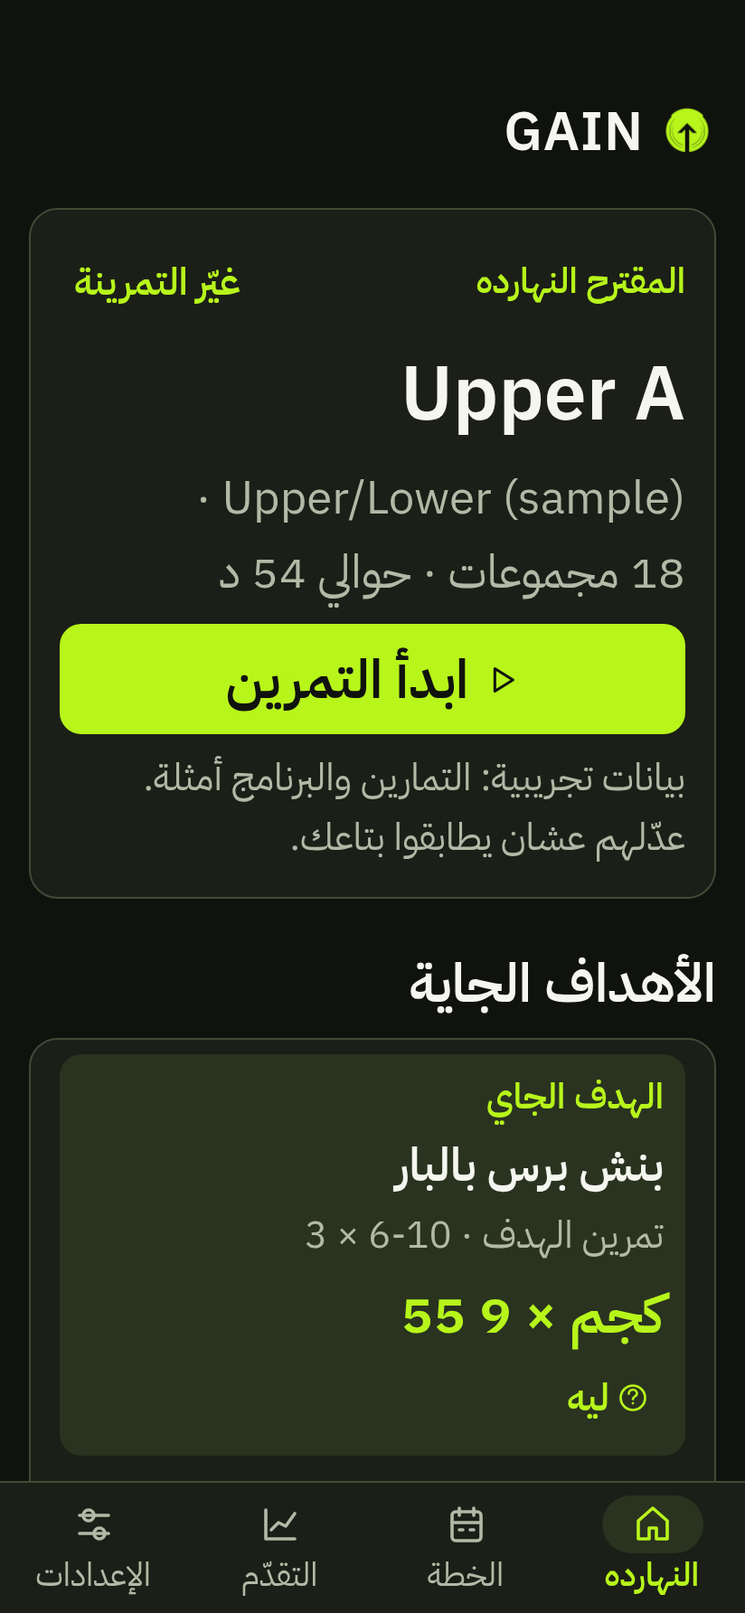
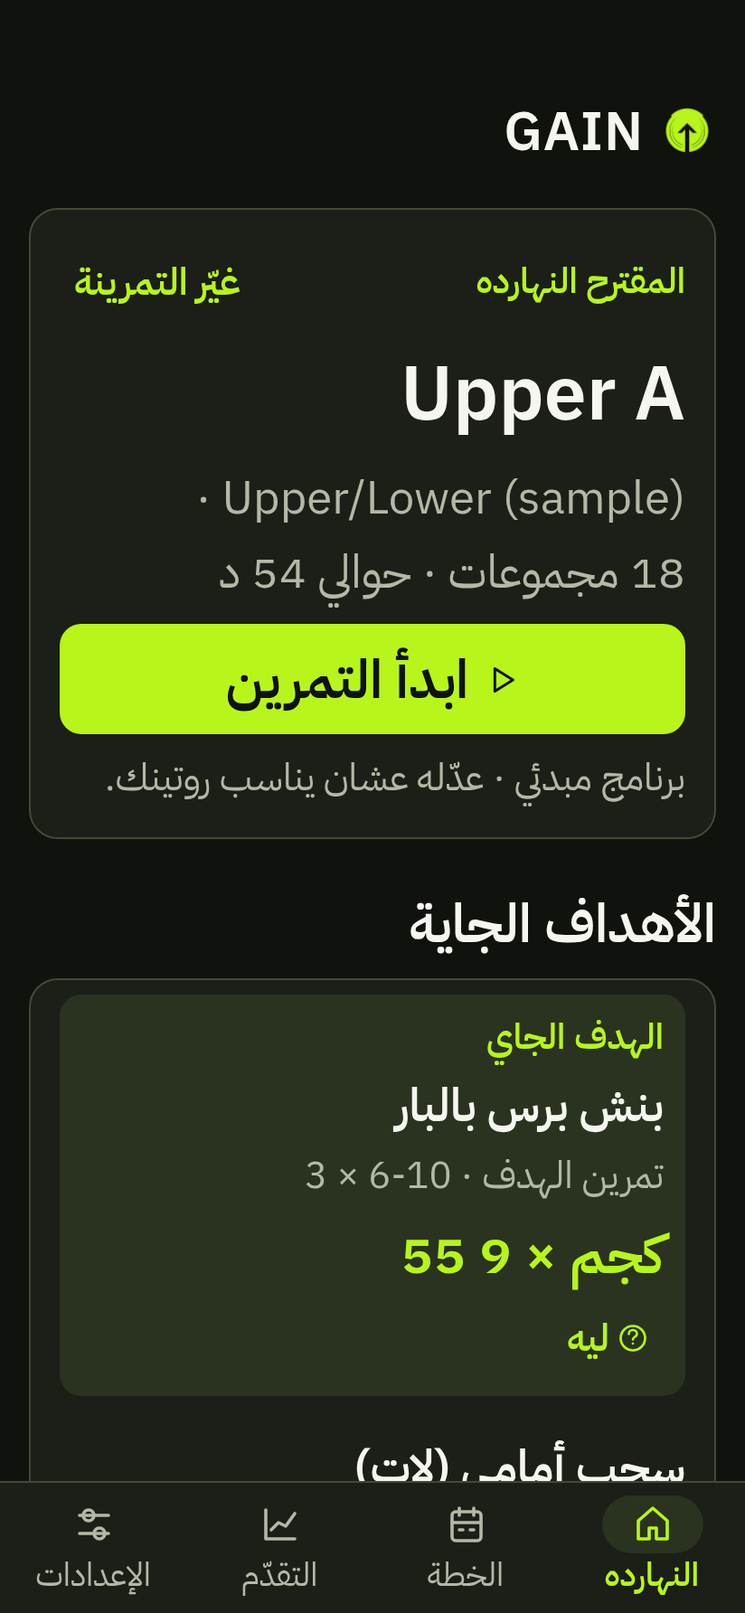
Logger: muted-green done tick (shared doneFill/doneEdge/onDone tokens), tighter heading/target/table spacing; Today: starter-programme note (EN + draft AR), seed has no history; NATIVE-CHECKLIST; refreshed web-render screenshots; bump 0.16.0 (versionCode 16)

diff --git a/apps/mobile/test/doneTickStarter.test.ts b/apps/mobile/test/doneTickStarter.test.ts
@@ -1,0 +1,92 @@
+import { readFileSync } from "node:fs";
+import { join } from "node:path";
+import { describe, expect, it } from "vitest";
+import { ar, en } from "../src/i18n/strings";
+import { darkPalette, lightPalette, logDarkPalette, logLightPalette } from "../src/palettes";
+import { SAMPLE_PROGRAMME } from "../src/db/seedData";
+import { freshDb } from "./helpers";
+
+const src = (f: string) => readFileSync(join(__dirname, "..", "src", f), "utf8");
+const screen = src("screens/WorkoutScreen.tsx");
+const lum = (hex: string) => {
+  const c = [1, 3, 5].map((i) => parseInt(hex.slice(i, i + 2), 16) / 255).map((v) => (v <= 0.03928 ? v / 12.92 : ((v + 0.055) / 1.055) ** 2.4));
+  return 0.2126 * c[0]! + 0.7152 * c[1]! + 0.0722 * c[2]!;
+};
+const ratio = (a: string, b: string) => (Math.max(lum(a), lum(b)) + 0.05) / (Math.min(lum(a), lum(b)) + 0.05);
+const hue = (hex: string) => {
+  const [r, g, b] = [1, 3, 5].map((i) => parseInt(hex.slice(i, i + 2), 16));
+  return { r: r!, g: g!, b: b! };
+};
+
+describe("done tick: muted green, not lime (shared palette tokens)", () => {
+  for (const [name, p, lp] of [["dark", darkPalette, logDarkPalette], ["light", lightPalette, logLightPalette]] as const) {
+    it(`${name}: tokens are shared by the app palette and the logger palette`, () => {
+      expect(lp.doneFill).toBe(p.doneFill);
+      expect(lp.doneEdge).toBe(p.doneEdge);
+      expect(lp.onDone).toBe(p.onDone);
+    });
+    it(`${name}: the check is readable on the done fill (4.5:1) and the done outline is a 3:1 boundary on the done row`, () => {
+      expect(ratio(p.onDone, p.doneFill)).toBeGreaterThanOrEqual(4.5);
+      expect(ratio(p.doneEdge, lp.doneBg)).toBeGreaterThanOrEqual(3);
+      expect(ratio(p.doneEdge, p.bg)).toBeGreaterThanOrEqual(3);
+    });
+    it(`${name}: the done fill is green and far from the brand lime, which stays the primary fill`, () => {
+      expect(p.doneFill.toLowerCase()).not.toBe(p.fill.toLowerCase());
+      const d = hue(p.doneFill);
+      expect(d.g).toBeGreaterThan(d.r);
+      expect(d.g).toBeGreaterThan(d.b);
+      const lime = hue(p.fill);
+      const chroma = (x: { r: number; g: number; b: number }) => Math.max(x.r, x.g, x.b) - Math.min(x.r, x.g, x.b);
+      expect(chroma(d)).toBeLessThan(chroma(lime) / 2); // muted: far less saturated than the lime
+    });
+  }
+  it("the tick button uses the done tokens, keeps the check icon, checkbox state and a 48 dp box", () => {
+    const tick = screen.slice(screen.indexOf('accessibilityRole="checkbox"'), screen.indexOf("<SwipeRow key"));
+    expect(tick).toContain("p.doneFill");
+    expect(tick).toContain("p.doneEdge");
+    expect(tick).toContain("p.onDone");
+    expect(tick).not.toMatch(/done \? p\.fill/);
+    expect(tick).toContain("accessibilityState={{ checked: done");
+    expect(tick).toContain('name="check"');
+    expect(tick).toContain("width: 48, height: 48");
+  });
+});
+
+describe("logger spacing uses the shared tokens", () => {
+  it("exercise block, target line and set table sit tighter, with only token values", () => {
+    expect(screen).toContain("paddingTop: space.md, borderStartWidth");
+    expect(screen).toContain("marginTop: space.xs }}>\n          <View style={colSet}>");
+    expect(screen).not.toContain("gap: space.xs, paddingTop: space.lg, borderStartWidth");
+  });
+});
+
+describe("starter programme: structure only, never fabricated history", () => {
+  it("Today says 'Starter programme · Edit it to match your routine.' in English; Egyptian Arabic (draft) is Arabic and the old placeholder wording is gone", () => {
+    expect(en["today.starterNote"]).toBe("Starter programme · Edit it to match your routine.");
+    expect(ar["today.starterNote"]).toMatch(/[\u0600-\u06FF]/);
+    expect(JSON.stringify(en)).not.toMatch(/placeholder programme|are placeholders/i);
+    expect(en["ob.skipNote"]).toContain("starter programme");
+    expect(ar["ob.skipNote"]).toContain("مبدئي");
+    expect(en["prog.sampleTag"]).toContain("Starter");
+    expect(ar["prog.sampleTag"]).toContain("مبدئي");
+  });
+  it("the seed is a plain programme: no sessions, no sets, no targets with numbers, no decisions", async () => {
+    const c = await freshDb();
+    await c.repos.seedIfNeeded();
+    const n = async (sql: string) => Number((await c.db.get<{ n: number }>(sql))?.n);
+    expect(await n("SELECT COUNT(*) AS n FROM session")).toBe(0);
+    expect(await n("SELECT COUNT(*) AS n FROM workout_set")).toBe(0);
+    expect(await n("SELECT COUNT(*) AS n FROM target")).toBe(0);
+    expect(SAMPLE_PROGRAMME.days.length).toBeGreaterThan(1);
+    const next = await c.repos.getNextDay();
+    const gymId = (await c.repos.getActiveGymId())!;
+    const planned = await c.finish.planDay(next!.day.id, gymId);
+    const targets = await c.finish.getTargets(planned!.sessionId);
+    expect(targets.length).toBeGreaterThan(0);
+    for (const t of targets) {
+      expect(t.load).toBeNull(); // no demo weights: a first-ever lift has no number until the lifter logs one
+      expect(t.reps).toBeNull();
+    }
+    expect(await n("SELECT COUNT(*) AS n FROM session WHERE status = 'finished'")).toBe(0);
+  });
+});

diff --git a/apps/mobile/src/screens/WorkoutScreen.tsx b/apps/mobile/src/screens/WorkoutScreen.tsx
@@ -644,7 +644,7 @@ export function WorkoutScreen() {
     const stacked = fontScale > 1.3;
 
     return (
-      <View key={ex.id} style={{ gap: space.xs, paddingTop: space.lg, borderStartWidth: ssLabel[ex.slot] ? 4 : 0, borderStartColor: p.fill }}>
+      <View key={ex.id} style={{ paddingTop: space.md, borderStartWidth: ssLabel[ex.slot] ? 4 : 0, borderStartColor: p.fill }}>
         <View style={{ flexDirection: "row", alignItems: "center", gap: space.xs, paddingStart: space.lg, paddingEnd: space.xs }}>
           <View style={{ flex: 1 }}>
             {ssLabel[ex.slot] ? (
@@ -658,6 +658,7 @@ export function WorkoutScreen() {
           <IconButton icon="more" label={`${t("workout.menu.title")}: ${labels.primary}`} color={p.muted} onPress={() => setMenuFor(ex.slot)} />
         </View>
 
+        {/* Tight vertical rhythm (spacing tokens): exercise block starts space.md below the previous one; heading, target line and set table sit directly on each other (the 48 dp controls already carry the breathing room), with space.xs above the column heads. */}
         {/* Compact target line: "Target 55 kg × 9 · Why". It wraps onto a second line when it is long and is never cut off. */}
         <View style={{ paddingHorizontal: space.lg }}>
           <TargetLine
@@ -673,7 +674,7 @@ export function WorkoutScreen() {
           {info.stored && expanded ? <AppText style={{ fontSize: ty.label, color: p.muted }}>{reasonText}</AppText> : null}
         </View>
 
-        <View style={{ flexDirection: "row", alignItems: "center", gap: 6, paddingHorizontal: space.md }}>
+        <View style={{ flexDirection: "row", alignItems: "center", gap: 6, paddingHorizontal: space.md, marginTop: space.xs }}>
           <View style={colSet}><AppText style={head}>{t("workout.col.set").toUpperCase()}</AppText></View>
           <View style={{ flex: 1.3 }}><AppText style={head}>{t("workout.col.prev").toUpperCase()}</AppText></View>
           {stacked ? null : (
@@ -691,7 +692,7 @@ export function WorkoutScreen() {
             const done = row.saved && !row.dirty;
             const canTick = rowCanLog(row);
             const current = currentRowKey(list) === row.key;
-            // Ticked rows get only a quiet wash (the lime tick says "done"); the set being worked on is the one with the strong wash, bar and outlined boxes.
+            // Ticked rows get only a quiet wash (the muted green check says "done"; lime stays for the current set and primary actions); the set being worked on is the one with the strong wash, bar and outlined boxes.
             const bg = done ? p.doneBg : current ? p.activeBg : p.bg;
             // Every small control says which exercise and which set it belongs to (a screen reader hears a list of identical boxes otherwise).
             const ctx = t("workout.setContext", { exercise: labels.primary, n: numbering[i] ?? i + 1 });
@@ -757,9 +758,9 @@ export function WorkoutScreen() {
                   accessibilityLabel={`${done ? t("workout.untick") : row.saved ? t("workout.tickUpdate") : t("workout.tick")}. ${ctx}`}
                   disabled={busy !== null || (!row.saved && !canTick)}
                   onPress={() => (done ? void untick(ex, row) : void logRow(ex, row))}
-                  style={{ width: 48, height: 48, borderRadius: radius.button, alignItems: "center", justifyContent: "center", backgroundColor: done ? p.fill : p.field, borderWidth: done ? 0 : current ? 2 : 1.5, borderColor: (row.saved && row.dirty) || current ? p.accent : p.edge, opacity: !done && !row.saved && !canTick ? 0.5 : 1 }}
+                  style={{ width: 48, height: 48, borderRadius: radius.button, alignItems: "center", justifyContent: "center", backgroundColor: done ? p.doneFill : p.field, borderWidth: done ? 1.5 : current ? 2 : 1.5, borderColor: done ? p.doneEdge : (row.saved && row.dirty) || current ? p.accent : p.edge, opacity: !done && !row.saved && !canTick ? 0.5 : 1 }}
                 >
-                  {row.saved && row.dirty ? <Icon name="edit" color={p.accent} size={20} /> : <Icon name="check" color={done ? p.onFill : p.muted} size={22} />}
+                  {row.saved && row.dirty ? <Icon name="edit" color={p.accent} size={20} /> : <Icon name="check" color={done ? p.onDone : p.muted} size={22} />}
                 </Pressable>
               </View>
             );

diff --git a/apps/mobile/src/palettes.ts b/apps/mobile/src/palettes.ts
@@ -22,6 +22,13 @@ export interface Palette {
   onFill: string;
   /** `fill` while pressed (slightly darker). */
   fillPressed: string;
+  /**
+   * "Done" treatment (a ticked set): a muted green fill with a green outline and a green check, so a finished set never competes with the
+   * lime that is reserved for the current unfinished row and the primary actions. Done is carried by the check mark + the checkbox state, not by colour alone.
+   */
+  doneFill: string;
+  doneEdge: string;
+  onDone: string;
   /** Selected-state background that is quieter than `fill` (target strip, selected row). */
   tint: string;
   /** Decoration only (hairlines, card borders). Not an interactive boundary. */
@@ -51,6 +58,9 @@ export const darkPalette: Palette = {
   fill: c.lime,
   onFill: c.darkAccentText,
   fillPressed: "#9FD816",
+  doneFill: "#2E4A38",
+  doneEdge: "#5E8F72",
+  onDone: c.success,
   tint: "#2A3320",
   border: c.border,
   edge: "#8A9580",
@@ -75,6 +85,9 @@ export const lightPalette: Palette = {
   fill: c.lime,
   onFill: c.ink,
   fillPressed: "#9FD816",
+  doneFill: "#CDE6D5",
+  doneEdge: "#3F8A5F",
+  onDone: "#1B6B3E",
   tint: "#E7F2C4",
   border: "#D3D8C5",
   edge: c.lightBorder,
@@ -103,11 +116,15 @@ export interface LogPalette {
   muted: string;
   /** Accent as text / icon colour on `bg` (lime on dark, dark olive on light). */
   accent: string;
-  /** Filled controls (done tick, primary buttons): lime, with ink on it. */
+  /** Filled controls (primary buttons, the current set): lime, with ink on it. A finished set uses `doneFill` instead. */
   fill: string;
   onFill: string;
   fillPressed: string;
-  /** Background of a ticked (logged) row: only a quiet olive wash; the filled lime tick is what says "done". */
+  /** Done tick (a logged set): muted green fill, outline and check colour. See Palette.doneFill. */
+  doneFill: string;
+  doneEdge: string;
+  onDone: string;
+  /** Background of a ticked (logged) row: only a quiet olive wash; the muted green check is what says "done". */
   doneBg: string;
   /** Background of the set the lifter is on now (the first unticked row of an exercise): clearly stronger than `doneBg`. */
   activeBg: string;
@@ -118,7 +135,7 @@ export interface LogPalette {
   edge: string;
 }
 
-const logOf = (p: Palette, doneBg: string): LogPalette => ({ activeBg: p.tint, bg: p.bg, card: p.card, field: p.raised, line: p.border, text: p.text, muted: p.muted, accent: p.accent, fill: p.fill, onFill: p.onFill, fillPressed: p.fillPressed, doneBg, warn: p.warn, danger: p.danger, onDanger: p.onDanger, edge: p.edge });
+const logOf = (p: Palette, doneBg: string): LogPalette => ({ activeBg: p.tint, bg: p.bg, card: p.card, field: p.raised, line: p.border, text: p.text, muted: p.muted, accent: p.accent, fill: p.fill, onFill: p.onFill, fillPressed: p.fillPressed, doneFill: p.doneFill, doneEdge: p.doneEdge, onDone: p.onDone, doneBg, warn: p.warn, danger: p.danger, onDanger: p.onDanger, edge: p.edge });
 export const logDarkPalette: LogPalette = logOf(darkPalette, "#1C2315");
 export const logLightPalette: LogPalette = logOf(lightPalette, "#EEF4DC");
 

diff --git a/apps/mobile/src/i18n/strings.onboarding.ts b/apps/mobile/src/i18n/strings.onboarding.ts
@@ -9,7 +9,7 @@ export const enOnboarding = {
   "ob.welcomeBody": "A few questions so the first session can be written. You can change every answer later.",
   "ob.language": "Language",
   "ob.skip": "Just start logging",
-  "ob.skipNote": "Starts with a placeholder programme you can edit in the Plan tab. Everything else can wait.",
+  "ob.skipNote": "Starts with a starter programme you can edit in the Plan tab. Everything else can wait.",
   "ob.units": "Units",
   "ob.units.kg": "Kilograms (kg)",
   "ob.units.lb": "Pounds (lb)",
@@ -89,7 +89,7 @@ export const arOnboarding: Record<keyof typeof enOnboarding, string> = {
   "ob.welcomeBody": "كام سؤال عشان نكتب أول تمرينة. تقدر تغيّر أي إجابة بعد كده.",
   "ob.language": "اللغة",
   "ob.skip": "ابدأ سجّل وخلاص",
-  "ob.skipNote": "بتبدأ ببرنامج مؤقت تعدّله من تبويب الخطة. الباقي يستنى.",
+  "ob.skipNote": "بتبدأ ببرنامج مبدئي تعدّله من تبويب الخطة. الباقي يستنى.",
   "ob.units": "الوحدات",
   "ob.units.kg": "كيلوجرام (كجم)",
   "ob.units.lb": "باوند (lb)",

diff --git a/apps/mobile/src/i18n/strings.ts b/apps/mobile/src/i18n/strings.ts
@@ -40,7 +40,7 @@ export const en = {
   "today.start": "Start workout",
   "today.startSoon": "The workout logger arrives in the next step.",
   "today.empty": "No programme yet.",
-  "today.sampleNote": "Sample data: the exercises and programme are placeholders. Edit them to match yours.",
+  "today.starterNote": "Starter programme · Edit it to match your routine.",
   "today.reps": "{min}-{max} reps",
   "today.goalTag": "Goal lift",
   "settings.title": "Settings",
@@ -225,7 +225,7 @@ export const ar: Record<StringKey, string> = {
   "today.start": "ابدأ التمرين",
   "today.startSoon": "شاشة تسجيل التمرين جاية في الخطوة الجاية.",
   "today.empty": "لسه مفيش برنامج.",
-  "today.sampleNote": "بيانات تجريبية: التمارين والبرنامج أمثلة. عدّلهم عشان يطابقوا بتاعك.",
+  "today.starterNote": "برنامج مبدئي · عدّله عشان يناسب روتينك.",
   "today.reps": "{min}-{max} عدّة",
   "today.goalTag": "تمرين الهدف",
   "settings.title": "الإعدادات",

diff --git a/apps/mobile/src/i18n/strings.programme.ts b/apps/mobile/src/i18n/strings.programme.ts
@@ -34,7 +34,7 @@ export const enProgramme = {
   "prog.title": "Programme",
   "prog.none": "No programme yet.",
   "prog.version": "Version {v}",
-  "prog.sampleTag": "Sample programme, not a recommendation",
+  "prog.sampleTag": "Starter programme, not a recommendation",
   "prog.dayLine": "{n} exercises, {sets} sets",
   "prog.edit": "Edit programme",
   "prog.new": "Build a new programme",
@@ -186,7 +186,7 @@ export const arProgramme: Record<keyof typeof enProgramme, string> = {
   "prog.title": "البرنامج",
   "prog.none": "لسه مفيش برنامج.",
   "prog.version": "النسخة {v}",
-  "prog.sampleTag": "برنامج عيّنة، مش توصية",
+  "prog.sampleTag": "برنامج مبدئي، مش توصية",
   "prog.dayLine": "{n} تمارين، {sets} مجموعات",
   "prog.edit": "عدّل البرنامج",
   "prog.new": "اعمل برنامج جديد",

diff --git a/apps/mobile/src/screens/TodayScreen.tsx b/apps/mobile/src/screens/TodayScreen.tsx
@@ -160,7 +160,7 @@ export function TodayScreen() {
         </View>
         {action.kind === "resume" ? <InlineStatus kind={action.elsewhere ? "warn" : "info"} text={action.elsewhere ? t("today.finishOpenFirst") : t("today.openWorkout")} /> : null}
         <BigButton hero icon={action.kind === "start" ? "play" : undefined} label={buttonText} disabled={starting} loading={starting} onPress={() => void start()} />
-        {data.isSample ? <AppText style={{ fontSize: ty.label, color: p.muted }}>{t("today.sampleNote")}</AppText> : null}
+        {data.isSample ? <AppText style={{ fontSize: ty.label, color: p.muted }}>{t("today.starterNote")}</AppText> : null}
       </Card>
 
       <View style={{ gap: space.sm }}>

diff --git a/apps/mobile/test/loggerRefine.test.ts b/apps/mobile/test/loggerRefine.test.ts
@@ -78,7 +78,7 @@ describe("logger and Today: layout rules (source)", () => {
     expect(today).toContain("isLead");
     expect(today).toContain('navigate("Why"');
     expect(today.indexOf("<BigButton hero")).toBeGreaterThan(0);
-    expect(today.indexOf('t("today.sampleNote")')).toBeGreaterThan(today.indexOf("<BigButton hero"));
+    expect(today.indexOf('t("today.starterNote")')).toBeGreaterThan(today.indexOf("<BigButton hero"));
   });
   it("Why/Change actions are the shared QuietAction with a 48 dp minimum touch area", () => {
     const q = ui.slice(ui.indexOf("export function QuietAction"), ui.indexOf("/** Labelled text field"));

diff --git a/docs/DESIGN.md b/docs/DESIGN.md
@@ -59,8 +59,8 @@ additions: close, plus, minus, alert, phone, cloud, play, edit) - `SettingsRows`
 
 - **Navigation.** Four tabs with SVG icons, always-visible labels (wrap, capped at 1.4x font scale so the bar stays usable), selected state = tinted pill behind the icon + bold label + accent colour (not colour alone), bottom safe area. The History tab is relabelled **Progress** (route name unchanged so saved
   navigation state and tests keep working). Tab screens draw their own title (`Screen tab title`).
-- **Today.** One session card: a "Suggested today" label (words, no star; "In progress" when a workout is open, "Your choice today" for any other day), the day name, programme - sets - minutes, the one lime Start / Resume hero button, then the sample-programme note (below the button). A compact quiet **Change workout** action opens `ChoiceSheet` (an accessible radio list in the shared `Sheet`, every day selectable, each row "name, badge, sets - minutes"). With a workout open, the button always resumes that workout ("Resume <day>" when another day is being looked at) and never plans or starts a second one (`sessionAction`). Below: the exercise list; the lead exercise (goal lift first, as before) is highlighted inside the list (tint, bar, "NEXT TARGET" caption, its target and a quiet **Why** action to the Why screen). There is no separate lead-target card. Weekly review and goal pace appear only when configured. Short-week is a quiet button.
-- **Workout logger.** One compact header row (back, title, help, rest timer, Finish), then one save-status line outside the scroll. The status says, in priority order: save failed / saving / "N not saved yet. Tick to save." (typed-but-unticked or edited rows) / "Resumed your open workout" (only for 6 s) / "Saved on this phone at HH:MM" / "Nothing logged yet" (`saveStatusKind`). Stats row. Per exercise: name with the rest control (timer icon + length or Off, 48 dp) and options menu on the same row, one wrapping target line `Target 55 kg x 9  [Why]` (`TargetLine`; Why is a `QuietAction`: accent text, no frame, 48 dp touch area), then set rows with Set / Previous / load / reps / tick (all 48 dp). The first unticked set of an exercise is the current set: strong wash, accent bar at the start edge, outlined boxes and tick. Ticked rows keep only a quiet wash and borderless boxes; the filled lime tick says "done". At font scale above 1.3 a row becomes two lines with captions so numbers never shrink or clip. The rest timer is a docked bar (layout child, never covering inputs) with the countdown at 36 sp, -15 / +30 / Stop, `accessibilityRole="timer"`. Instructions live in the Help sheet. The 250 ms tick stays isolated in `RestClock`.
+- **Today.** One session card: a "Suggested today" label (words, no star; "In progress" when a workout is open, "Your choice today" for any other day), the day name, programme - sets - minutes, the one lime Start / Resume hero button, then the starter-programme note "Starter programme · Edit it to match your routine." (below the button; shown while the active programme is the built-in starter, `programme.is_sample = 1`). A compact quiet **Change workout** action opens `ChoiceSheet` (an accessible radio list in the shared `Sheet`, every day selectable, each row "name, badge, sets - minutes"). With a workout open, the button always resumes that workout ("Resume <day>" when another day is being looked at) and never plans or starts a second one (`sessionAction`). Below: the exercise list; the lead exercise (goal lift first, as before) is highlighted inside the list (tint, bar, "NEXT TARGET" caption, its target and a quiet **Why** action to the Why screen). There is no separate lead-target card. Weekly review and goal pace appear only when configured. Short-week is a quiet button.
+- **Workout logger.** One compact header row (back, title, help, rest timer, Finish), then one save-status line outside the scroll. The status says, in priority order: save failed / saving / "N not saved yet. Tick to save." (typed-but-unticked or edited rows) / "Resumed your open workout" (only for 6 s) / "Saved on this phone at HH:MM" / "Nothing logged yet" (`saveStatusKind`). Stats row. Per exercise: name with the rest control (timer icon + length or Off, 48 dp) and options menu on the same row, one wrapping target line `Target 55 kg x 9  [Why]` (`TargetLine`; Why is a `QuietAction`: accent text, no frame, 48 dp touch area), then set rows with Set / Previous / load / reps / tick (all 48 dp). The first unticked set of an exercise is the current set: strong wash, accent bar at the start edge, outlined boxes and tick. Ticked rows keep only a quiet wash and borderless boxes; the done tick is a **muted green** (shared tokens `doneFill` / `doneEdge` / `onDone` in `palettes.ts`, both themes, contrast-tested) with a check mark and checkbox state `checked`, so "done" never relies on colour alone and lime stays reserved for the current unfinished row (accent bar, outlined boxes, accent-outlined tick) and primary actions (Finish, rest Start). Vertical rhythm: an exercise block starts `space.md` below the previous one; heading, target line and set table sit directly on each other (the 48 dp rest toggle, Why action and set controls already carry the breathing room) with `space.xs` above the column heads. At font scale above 1.3 a row becomes two lines with captions so numbers never shrink or clip. The rest timer is a docked bar (layout child, never covering inputs) with the countdown at 36 sp, -15 / +30 / Stop, `accessibilityRole="timer"`. Instructions live in the Help sheet. The 250 ms tick stays isolated in `RestClock`.
 - **Finish.** Title + "saved on this phone", the counted-sets summary (an empty workout says so; no celebration), collapsed records,
   then one card per next target: the number large, a status line, **Accept** (primary) and **Edit weight** (secondary), a stepper editor, the
   jump-guard notice, and Why / Reject as quiet actions. **Done** is a sticky hero button.
@@ -128,3 +128,7 @@ system back button do not exist there. The bundled fonts load through CSS `@font
 
 **Native blocker.** This box has no hardware virtualisation for the `box` user (`/dev/kvm` is `root:103`), so an x86_64 Android emulator runs in
 pure software; the earlier v0.4.0 attempt rendered three onboarding screens and then hit system ANR dialogs (see `DEVICE-TEST-0.4.md`).
+
+
+## 7. Starter programme (what the built-in sample actually is)
+Checked in code (`db/seedData.ts`, `repos.seedIfNeeded`, `onboardingRepo`): on a first launch the app seeds a generic 4-day upper/lower **structure** (days, exercises, sets, rep ranges), a placeholder gym rack and the exercise library, all stored with `is_sample = 1`. It seeds **no sessions, no logged sets, no targets and no decisions**: the first targets for those exercises are empty ("no target yet") until the lifter logs a lift. So nothing in the seed is demo history or a demo weight, and it is safe to present as a starter programme. Onboarding replaces it (`retireSample`) once the lifter sets up their own plan. Screenshots in `docs/design-screens/` use fabricated history, but only inside the web-render harness (a box artefact, never shipped in the app); `test/doneTickStarter.test.ts` pins that the shipped seed has none. The stored programme name still reads "Upper/Lower (sample)" and the gym "Sample gym (placeholder...)" on installs that already seeded them; renaming stored rows would be a data change, so it was left alone. Arabic wording for the starter strings is a **draft** pending review.

diff --git a/docs/NATIVE-CHECKLIST.md b/docs/NATIVE-CHECKLIST.md
@@ -1,0 +1,30 @@
+# Native checklist for v0.16.0 (visual identity + done tick + starter note)
+
+**Nothing below has been run on an Android device or emulator.** The box has no usable hardware acceleration (`/dev/kvm` is root-only, `emulator -accel-check` fails for the box user, and the earlier software-emulated x86_64 run needed ~20-25 min to boot and then hit repeated ANRs; see DEVICE-TEST-0.4.md). Every row is NOT TESTED until you fill it in. Browser renders do not count.
+
+Install the signed arm64 APK from the v0.16.0 release over v0.15.0 (Settings > Check for updates, or sideload). Phone: ______  Android: ______  Date: ______
+
+| # | Check | How | Result |
+|---|---|---|---|
+| 1 | Update over v0.15.0 keeps history | Install over the old app; History/Progress still list old sessions | NOT TESTED |
+| 2 | Weights/reps entry, keyboard open | Tap a weight box on the 3rd set of an exercise with the keyboard up: the row you type in is still visible, not hidden under the keyboard | NOT TESTED |
+| 3 | Done tick is muted green, not lime | Tick a set: green box + check. Untick: back to the empty outlined box. The current (first unticked) set keeps the lime accent bar/outline | NOT TESTED |
+| 4 | Complete / undo sets | Tick, untick, tick again; counts and "Saved on this phone" line are right | NOT TESTED |
+| 5 | Add / delete sets | "Add set", swipe a row to Delete, confirm | NOT TESTED |
+| 6 | Finish workout | Finish, summary shows the sets you logged, next targets appear | NOT TESTED |
+| 7 | Rest timer: foreground | Tick a set; timer starts, +30/-15/Stop work | NOT TESTED |
+| 8 | Rest timer: background + screen lock | Start timer, press Home / lock for >1 min; on return the countdown is correct; notification/alert fires if enabled | NOT TESTED |
+| 9 | Background + resume | Leave mid-workout for a few minutes, reopen: same workout, nothing lost | NOT TESTED |
+| 10 | Force-stop + reopen mid-workout | Log 2 sets, force-stop from Settings > Apps, reopen: Resume shows exactly 2 sets (none lost, none duplicated) | NOT TESTED |
+| 11 | Large system text | Settings > Display > Font size largest (and Display size large): set rows stack in two lines, nothing clipped, Target line wraps, tick still tappable | NOT TESTED |
+| 12 | TalkBack | Swipe through a set row: "<exercise>, set N" labels; tick says "checked" when done; "Undo/Tick" announced; Why and Change workout reachable | NOT TESTED |
+| 13 | Arabic RTL | Switch to Arabic: layout mirrored, numbers stay LTR, starter note reads sensibly (draft Arabic) | NOT TESTED |
+| 14 | kg / lb entry | Switch units, enter 62.5 / 135, previous/target show in the chosen unit, nothing changes the stored kg | NOT TESTED |
+| 15 | Light / dark | Both themes: done tick readable, lime used only for current row + primary buttons | NOT TESTED |
+| 16 | Native fonts | IBM Plex Sans / Plex Sans Arabic load (no fallback to Roboto look) | NOT TESTED |
+| 17 | Navigation | Tabs, Today > Workout > back, Change workout sheet, Android back closes the sheet | NOT TESTED |
+| 18 | Safe areas | Status bar/notch and gesture bar do not overlap the header, Finish, or the rest dock | NOT TESTED |
+| 19 | Today starter note | Fresh install (or before onboarding): "Starter programme · Edit it to match your routine." under Start; no fake history or weights | NOT TESTED |
+| 20 | Logger spacing | Heading, Target line, set table are close but readable; "Target 55 kg × 9 · Why" still compact | NOT TESTED |
+
+Report anything marked FAIL as an issue with a screenshot.

diff --git a/docs/MASTER-PLAN.md b/docs/MASTER-PLAN.md
@@ -18,6 +18,8 @@ Rule for all steps: no step is "done" until it was run on a device (or is explic
 
 **Hardening done without a phone (2026-10-03):** fresh-clone build and signing verified (RELEASE-PROCESS.md section 8); D1 Time Travel status checked and restore steps documented (SYNC.md); `npm audit` reviewed, 30 findings all in build/test tooling, nothing safely patchable ([DEPENDENCY-AUDIT.md](DEPENDENCY-AUDIT.md)). None of this is device verification.
 
+**v0.16.0 (visual identity + logger refinement, unit-tested and web-rendered only, NOT device-verified; checklist in NATIVE-CHECKLIST.md):** GAIN electric-lime-on-charcoal identity with bundled Plex fonts, session-first Today with a Change workout picker, compact logger with a status line, muted-green done ticks (lime reserved for the current set and primary actions), tighter logger spacing, and the starter-programme note on Today. No engine, SQLite, migration or sync changes. Details: DESIGN.md.
+
 **v0.15.0 (fixes + design pass, unit-tested only, NOT device-verified):** one charcoal + mint look across navigation, logger and all screens with a fixed type scale; Today leads with "{day} · {sets} sets · ~{min} min" and a big Start button, then targets, with "Next session: X" as the signature line on Today and Finish; logger shows "Target: X" with a small Why button and a Help sheet; compact expandable Plan day cards (exposure and versions moved to secondary screens, relabelled "planned direct sets"); compact History rows; grouped Settings (Training, Display, Data, About) with an appearance choice; second-language exercise names hidden by default (a Settings switch). Fixes: jump guard, rep-range display, partial sets, empty-workout discard, error/retry states, 48dp set controls with TalkBack labels, onboarding "Just start logging"/"No goal for now"/Import path, honest session-length estimate, optional warm-ups for later isolation work, a second SQLite connection for sync/restore, verified backups before migration and restore (with an automatic before-restore copy), sync token and recovery code in secure storage, a rest-timer render fix, free next-weight recommendation, claims reworded (standard weight steps; ACSM-based with GAIN conventions; no AI claim). **Server side, NOT deployed:** migration `0003_generation.sql`, generation/quota/kill-switch/daily cron need `wrangler d1 migrations apply` and a Worker deploy by Mohamed before the app's reconcile and quota paths do anything. None of this is verified on a phone.
 
 **Outside-review items P01-P32, status at v0.15.0 (all merged to `main`; every "done" is code + unit tests, NOT verified on a device).** The original review text is not stored in this repo, so the labels below come from the PR titles and commits (#91-#113); where a number appears in no PR, commit or doc it is listed as not addressed rather than guessed.

diff --git a/docs/design-screens/README.md b/docs/design-screens/README.md
@@ -25,3 +25,6 @@ The other screens keep the earlier five variants (`dark-en`, `light-en`, `dark-a
 Large text ("fs150") is the harness multiplying text sizes by 1.5 and feeding `fontScale` 1.5 to the layout code; it is not Android's real system font scaling.
 The full set (more states, light/dark, EN/AR, 1.5x text; the Today/logger images are regenerated for this revision) is a box artefact, not committed:
 `/workspace/design/screens/web-render/`.
+
+## Revision for this round (done tick, spacing, starter note)
+Today and logger screenshots (`02a`, `02d`, `03a`, `03b`, `03c`) were regenerated: completed sets now show a **muted green** tick (not lime), spacing between exercise heading, target line and set table is tighter, and Today shows "Starter programme · Edit it to match your routine." (Arabic is a draft). Still **web renders on fabricated screenshot-only data, not device tests**.
